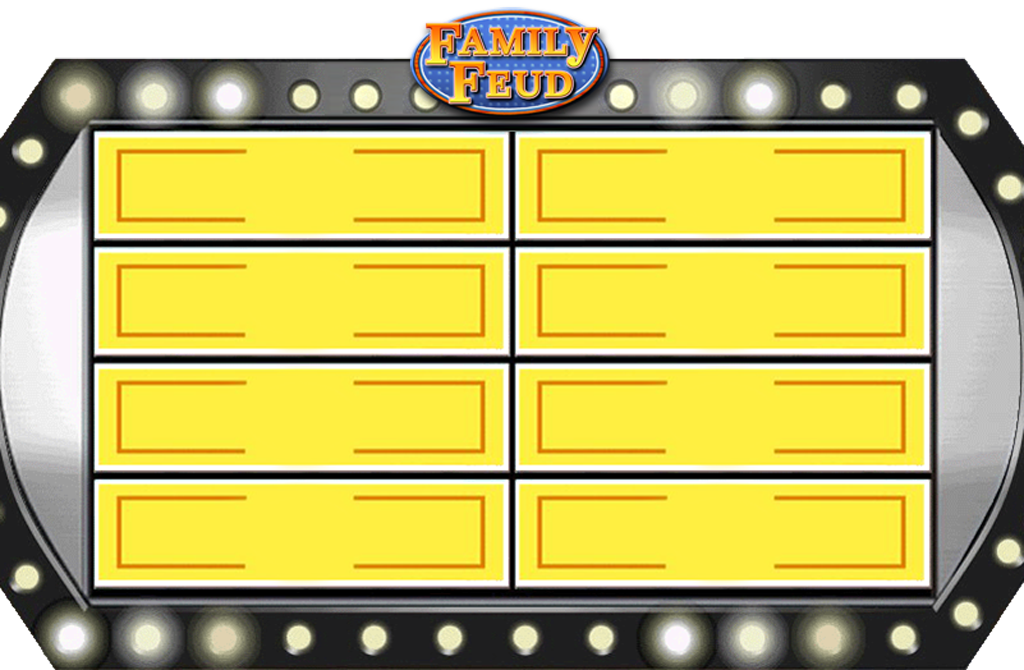
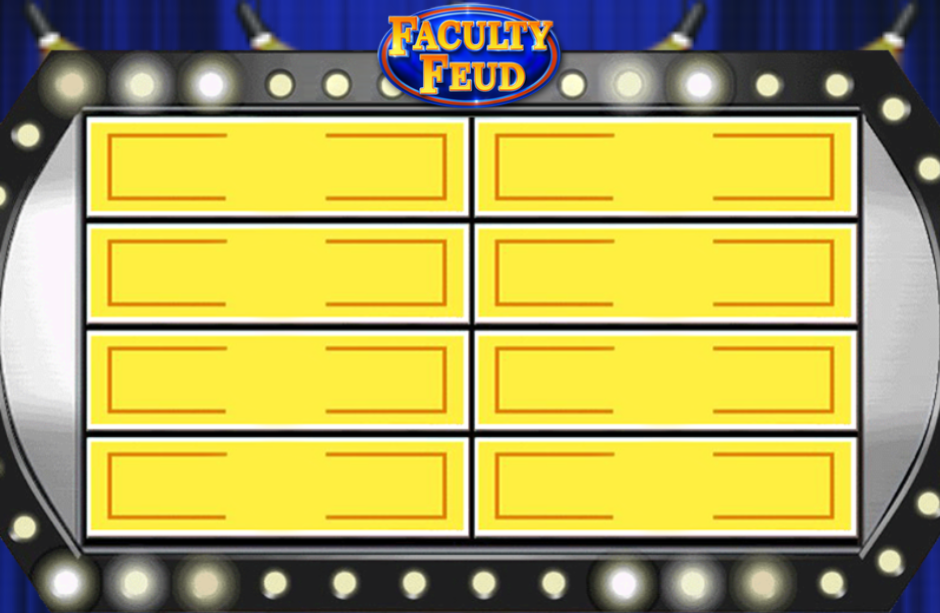
image changed and blue bg changed to red

diff --git a/Form1.Designer.cs b/Form1.Designer.cs
@@ -181,7 +181,7 @@
             // 
             this.AutoScaleDimensions = new System.Drawing.SizeF(6F, 13F);
             this.AutoScaleMode = System.Windows.Forms.AutoScaleMode.Font;
-            this.BackColor = System.Drawing.Color.Blue;
+            this.BackColor = System.Drawing.Color.Red;
             this.BackgroundImage = ((System.Drawing.Image)(resources.GetObject("$this.BackgroundImage")));
             this.ClientSize = new System.Drawing.Size(1021, 664);
             this.Controls.Add(this.button9);
